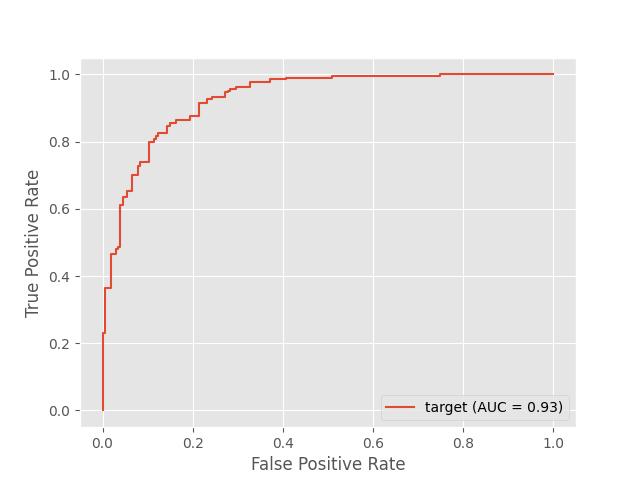
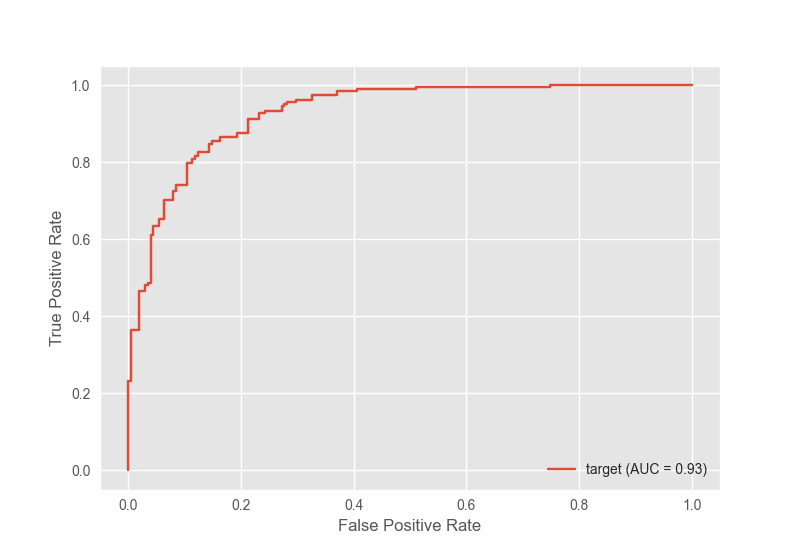
updated models.py

diff --git a/models.py b/models.py
@@ -1,3 +1,4 @@
+import sys
 import matplotlib.pyplot as plt
 import numpy as np
 import pandas as pd
@@ -8,7 +9,12 @@ from sklearn.metrics import classification_report, accuracy_score, brier_score_l
 
 from associated_risk import X, y
 
+# import ROCMetrics
+sys.path.insert(0, r'C:\Users\tzipo\Documents\GitHub\NeuralNetworks-FinalProject')
+from ROC import ROCMetrics
+
 plt.style.use('ggplot')
+
 
 
 def specificity(tn, fp):
@@ -66,68 +72,26 @@ print(ame_df[ame_df['dy/dx'] == ame_df['dy/dx'].min()])
 
 # determine threshold
 yhat_in_sample = log_reg.predict(X_train)
-pred_in_sample = pd.DataFrame()
-
-sensitivity_is = [None] * 100
-specificity_is = [None] * 100
-precision_is = [None] * 100
-accuracy_is = [None] * 100
-
-for i in range(0, 100, 1):
-    threshold = i / 100
-    predicted = yhat_in_sample >= threshold
-    pred_in_sample[threshold] = predicted.astype(int)
-
-    conf_matrix = confusion_matrix(y_train, predicted)
-    tp = conf_matrix[1][1]
-    tn = conf_matrix[0][0]
-    fp = conf_matrix[0][1]
-    fn = conf_matrix[1][0]
-
-    sensitivity_is[i] = sensitivity(tp, fn)
-    specificity_is[i] = specificity(tn, fp)
-    precision_is[i] = precision(tp, fp)
-    accuracy_is[i] = accuracy_score(y_train, predicted)
-
-roc_df_is = pd.DataFrame({'sesitivity': sensitivity_is, 'specificity': specificity_is, 'precision': precision_is,
-                          'accuracy': accuracy_is},
-                         index=pred_in_sample.columns).transpose()
-pred_in_sample = pred_in_sample.append(roc_df_is)
-p_th = pred_in_sample.loc[['sesitivity', 'specificity', 'precision', 'accuracy'], :].sum().idxmax()
+roc = ROCMetrics(y_train, yhat_in_sample)
+thresholds = roc.threshold_matrix(step_size=0.001)
+p_th = thresholds.loc[['sensitivity', 'specificity', 'precision', 'accuracy', 'f1_score'], :].sum().idxmax()
+print(thresholds.loc[:, p_th].round(4))
+roc.roc_plot('plots/roc-is-1.png')
 
 # scoring in sample
 brier_score = brier_score_loss(y_train, yhat_in_sample)
 auc_ = roc_auc_score(y_train, yhat_in_sample)
 ll = log_loss(y_train, yhat_in_sample)
-fpr, tpr, thresholds = roc_curve(y_train, yhat_in_sample)
-roc_auc = auc(fpr, tpr)
-
-display = RocCurveDisplay(fpr=fpr, tpr=tpr, roc_auc=roc_auc, estimator_name='target')
-display.plot()
-plt.savefig('plots/roc-is-1.png')
 
 # predict
 yhat_out_of_sample = log_reg.predict(X_test)
-pred_out_of_sample = pd.DataFrame()
-for i in range(0, 100, 1):
-    threshold = i / 100
-    predicted = yhat_out_of_sample >= threshold
-    pred_out_of_sample[threshold] = predicted.astype(int)
-yhat = (yhat_out_of_sample >= p_th).astype(int)
+roc_oos = ROCMetrics(y_test, yhat_out_of_sample)
+thresholds_oos = roc_oos.threshold_matrix(step_size=0.001)
+p_th = thresholds_oos.loc[['sensitivity', 'specificity', 'precision', 'accuracy', 'f1_score'], :].sum().idxmax()
+print(thresholds.loc[:, p_th].round(4))
+roc_oos.roc_plot('plots/roc-oos-1.png')
 
 # scoring oos
 brier_score_oos = brier_score_loss(y_test, yhat_out_of_sample)
 auc_oos = roc_auc_score(y_test, yhat_out_of_sample)
 ll_oos = log_loss(y_test, yhat_out_of_sample)
-fpr_oos, tpr_oos, thresholds_oos = roc_curve(y_test, yhat_out_of_sample)
-roc_auc_oos = auc(fpr_oos, tpr_oos)
-
-display = RocCurveDisplay(fpr=fpr_oos, tpr=tpr_oos, roc_auc=roc_auc_oos, estimator_name='target')
-display.plot()
-plt.savefig('plots/roc-oos-1.png')
-
-# score
-conf_matrix = pd.crosstab(y_test, yhat, rownames=['Actual'], colnames=['Predicted'], margins=True)
-accuracy_ = accuracy_score(y_test, yhat)
-roc = classification_report(y_test, yhat)
-print(roc)
